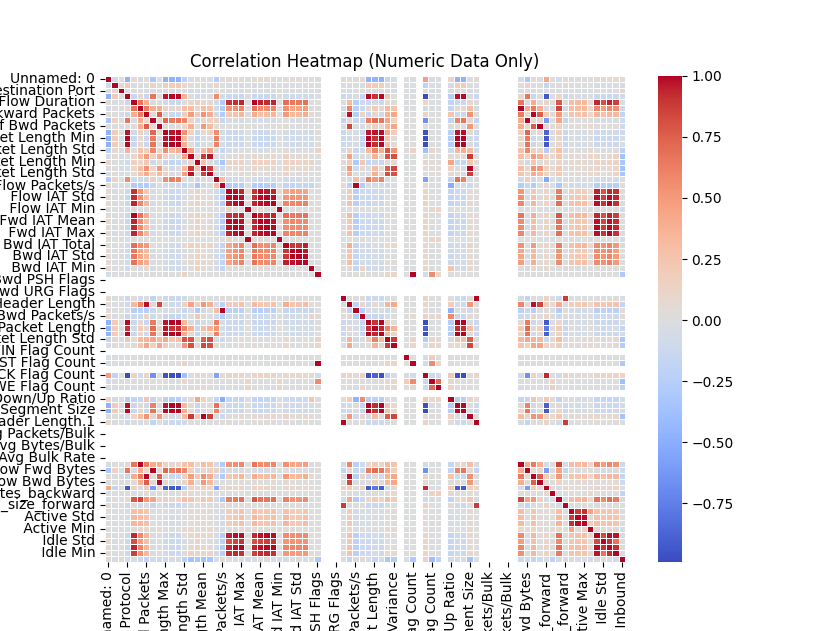
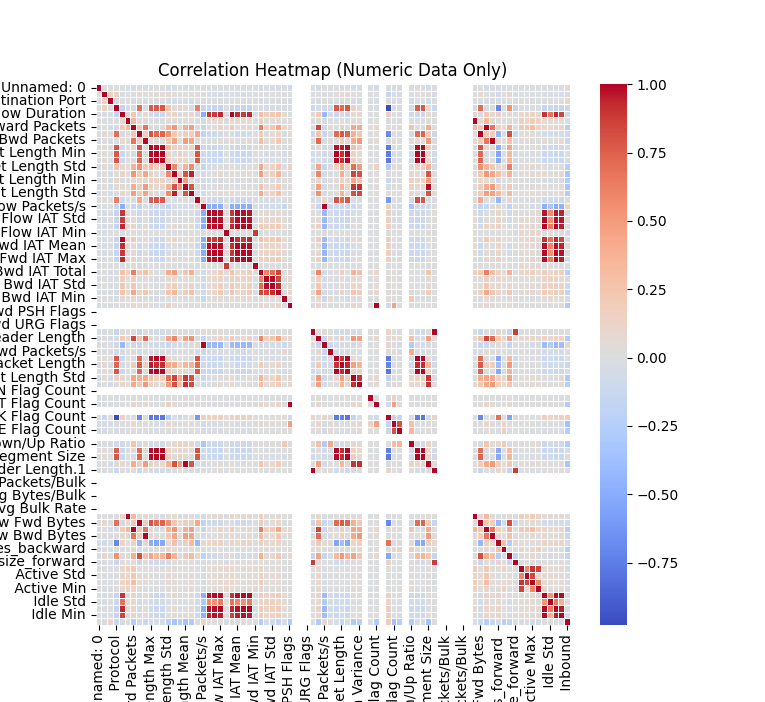
Working for UDPLag

diff --git a/NIDS.py b/NIDS.py
@@ -10,20 +10,25 @@ from sklearn.model_selection import train_test_split
 from sklearn.preprocessing import MinMaxScaler 
 
 #Define the input CSV file path
-csv_file_path = 'Data/03-11/UDPLag.csv' 
+UDPLag_csv_file_path = 'Data/01-12/UDPLag.csv'
 
-df = pd.read_csv(csv_file_path)
+UDPLag_df = pd.read_csv(UDPLag_csv_file_path)
 
 # Select only numeric columns from the DataFrame
-numeric_df = df.select_dtypes(include=['number'])
+numeric_df = UDPLag_df.select_dtypes(include=['number'])
 
-'''
+
 #df of categorical rows
 # Filter the columns in df_subset that are not in numeric_df
-categorical_columns = df.columns.difference(numeric_df.columns)
-categorical_df = df[categorical_columns]
-print(categorical_df.columns)
+categorical_columns = UDPLag_df.columns.difference(numeric_df.columns)
+categorical_df = UDPLag_df[categorical_columns]
 
+#UDP training dataset
+UDP_csv_file_path = 'Data/01-12/DrDoS_UDP.csv'
+UDP_df = pd.read_csv(UDP_csv_file_path)
+
+'''
+#make bar graphs of categorical data
 for column in categorical_df.columns:
     value_counts = categorical_df[column].value_counts()
     plt.figure(figsize=(8, 6))  # Adjust the figure size if needed
@@ -33,19 +38,15 @@ for column in categorical_df.columns:
     plt.ylabel('Unique Values')
     plt.title(f'Count of Unique Values in {column}')
     plt.show()
-'''
 
-#numeric df stuff
+#make correlation matrix
 correlation_matrix = numeric_df.corr()
 
-
 # Create a heatmap to visualize the correlation matrix
-'''
 plt.figure(figsize=(8, 8))  # Adjust the figure size if needed
 sns.heatmap(correlation_matrix, annot=False, cmap="coolwarm", linewidths=0.5)
 plt.title("Correlation Heatmap (Numeric Data Only)")
 plt.show()
-'''
 
 # Set a threshold for high correlation (e.g., 0.7)
 threshold = 0.7
@@ -59,12 +60,10 @@ for i in range(len(correlation_matrix.columns)):
 
 
 # Print the pairs of variables with high correlation
-'''
 for pair in high_correlations:
     var1, var2 = pair
     correlation_value = correlation_matrix.loc[var1, var2]
     print(f"High correlation between {var1} and {var2}: {correlation_value}")
-'''
 
 #keep only one of each pair of vars with high correlation
 vars_to_keep = []
@@ -72,37 +71,44 @@ for pair in high_correlations:
     var1, var2 = pair
     if var1 not in vars_to_keep and var2 not in vars_to_keep:
         vars_to_keep.append(var1)
-
 #add Label to vars_to_keep
 vars_to_keep.append(' Label')
+'''
 
 #apply feature mappin on label column
-df[' Label'] = df[' Label'].map({'BENIGN': 0, 'UDPLag': 1, 'UDP': 2, 'Syn': 3})
+UDPLag_df[' Label'] = UDPLag_df[' Label'].map({'BENIGN': 0, 'UDP-lag': 1, 'UDP': 2, 'Syn': 3, 'WebDDoS': 4})
+UDP_df[' Label'] = UDP_df[' Label'].map({'BENIGN': 0, 'UDP-lag': 1, 'UDP': 2, 'Syn': 3, 'WebDDoS': 4})
 
-#new filter list based on dataset info
-vars_to_keep = [' ACK Flag Count', '_bInit_Winytes_forward', ' min_seg_size_forward', ' Fwd IAT Mean', ' Fwd IAT Max', ' Label']
+#make column filter list based on dataset info
+UDPLag_vars_to_keep = [' ACK Flag Count', 'Init_Win_bytes_forward', ' min_seg_size_forward', ' Fwd IAT Mean', ' Fwd IAT Max', ' Label']
+UDP_vars_to_keep = [' ACK Flag Count', 'Init_Win_bytes_forward', ' min_seg_size_forward', ' Fwd IAT Mean', ' Fwd IAT Max', ' Label']
 
-#filter df based on vars_to_keep
-df_filtered = df[vars_to_keep]
+#filter df based on filter list defined above
+UDPLag_df_filtered = UDPLag_df[UDPLag_vars_to_keep]
 
-#Prepare train data
-y_train = df_filtered[[' Label']]
-X_train = df_filtered.drop(columns=[' Label'], axis=1)
-sc = MinMaxScaler() 
-X_train = sc.fit_transform(X_train)
+UPD_df_filtered = UDP_df[UDP_vars_to_keep]
 
 
 #test dataset
-test_csv_file_path = 'Data/01-12/UDPLag.csv'
+test_csv_file_path = 'Data/03-11/UDPLag.csv'
 test_df = pd.read_csv(test_csv_file_path)
 
 #apply feature mappin on label column
-print(test_df[' Label'].unique())
-test_df[' Label'] = test_df[' Label'].map({'BENIGN': 0, 'UDP-lag': 1, 'WebDDoS': 2})
+test_df[' Label'] = test_df[' Label'].map({'BENIGN': 0, 'UDPLag': 1, 'UDP': 2, 'Syn': 3, 'WebDDoS': 4})
+#rename wrongly named column for consistency
+test_df.rename(columns={'_bInit_Winytes_forward': 'Init_Win_bytes_forward'}, inplace=True)
 
-#test filtered df based on vars_to_keep
-test_vars_to_keep = [' ACK Flag Count', 'Init_Win_bytes_forward', ' min_seg_size_forward', ' Fwd IAT Mean', ' Fwd IAT Max', ' Label']
-test_df_filtered = test_df[test_vars_to_keep]
+#make testing filtered df based on vars_to_keep
+test_df_filtered = test_df[UDPLag_vars_to_keep]
+
+#keep only 0, 1, and 4 in Label column of test_df_filtered
+test_df_filtered = test_df_filtered[test_df_filtered[' Label'].isin([0, 1, 4])]
+
+#Prepare train data
+y_train = UDPLag_df_filtered[[' Label']]
+X_train = UDPLag_df_filtered.drop(columns=[' Label'], axis=1)
+sc = MinMaxScaler() 
+X_train = sc.fit_transform(X_train)
 
 #Prepare test data
 y_test = test_df_filtered[[' Label']]
@@ -110,14 +116,20 @@ X_test = test_df_filtered.drop(columns=[' Label'], axis=1)
 sc = MinMaxScaler()
 X_test = sc.fit_transform(X_test)
 
+
+#check for null values
+print(np.isnan(y_test.values.any()))
+print(np.isfinite(y_test.values.all()))
+ 
 #print data shapes
 print(X_train.shape, X_test.shape) 
 print(y_train.shape, y_test.shape) 
 
 #Train on Random Forest Model
 from sklearn.ensemble import RandomForestClassifier
-from sklearn.metrics import accuracy_score 
+from sklearn.metrics import accuracy_score
 
+print("Random Forest Classifier")
 clfr = RandomForestClassifier(n_estimators = 5) 
 start_time = time.time() 
 clfr.fit(X_train, y_train.values.ravel()) 
@@ -133,4 +145,38 @@ print("Testing time: ", end_time-start_time)
 #Print results
 print("Train score is:", clfr.score(X_train, y_train)) 
 print("Test score is:", clfr.score(X_test, y_test)) 
+'''
+print("Gaussian Naive Bayes Classifier")
+# Gaussian Naive Bayes 
+from sklearn.naive_bayes import GaussianNB 
+from sklearn.metrics import accuracy_score 
+  
+clfg = GaussianNB() 
+start_time = time.time() 
+clfg.fit(X_train, y_train.values.ravel()) 
+end_time = time.time() 
+print("Training time: ", end_time-start_time) 
 
+start_time = time.time() 
+y_test_pred = clfg.predict(X_train) 
+end_time = time.time() 
+print("Testing time: ", end_time-start_time) 
+
+print("Train score is:", clfg.score(X_train, y_train)) 
+print("Test score is:", clfg.score(X_test, y_test)) 
+'''
+
+# Decision Tree 
+print("Decision Tree Classifier") 
+from sklearn.tree import DecisionTreeClassifier 
+clfd = DecisionTreeClassifier(criterion ="entropy", max_depth = 4) 
+start_time = time.time() 
+clfd.fit(X_train, y_train.values.ravel()) 
+end_time = time.time() 
+print("Training time: ", end_time-start_time) 
+start_time = time.time() 
+y_test_pred = clfd.predict(X_train) 
+end_time = time.time() 
+print("Testing time: ", end_time-start_time) 
+print("Train score is:", clfd.score(X_train, y_train)) 
+print("Test score is:", clfd.score(X_test, y_test)) 
